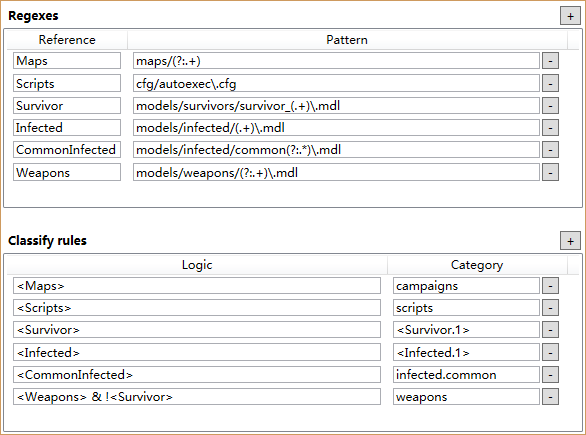
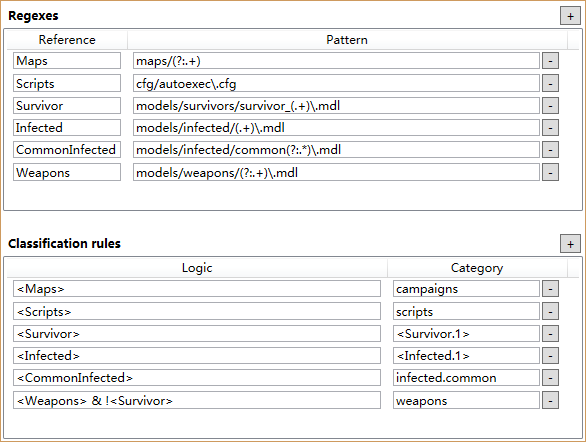
refine English

diff --git a/SourceCode/L4D2ModManager/Resources/Langs/zh-CN.xaml b/SourceCode/L4D2ModManager/Resources/Langs/zh-CN.xaml
@@ -27,7 +27,7 @@
     <s:String x:Key="Label_SubCategory">子分类</s:String>
     <s:String x:Key="Label_Search">查找：</s:String>
     <s:String x:Key="Label_Regex">正则表达式</s:String>
-    <s:String x:Key="Label_ClassifyRule">分类规则</s:String>
+    <s:String x:Key="Label_ClassificationRule">分类规则</s:String>
     <s:String x:Key="Col_ModId">标识符</s:String>
     <s:String x:Key="Col_ModSource">来源</s:String>
     <s:String x:Key="Col_ModState">状态</s:String>
@@ -48,7 +48,7 @@
     <s:String x:Key="Menu_SetPath">设置游戏路径</s:String>
     <s:String x:Key="Menu_Exit">退出</s:String>
     <s:String x:Key="Menu_CustomCategory">自定义分类</s:String>
-    <s:String x:Key="Menu_LocalModClassifyRule">本地Mod分类规则</s:String>
+    <s:String x:Key="Menu_LocalModClassificationRule">本地Mod分类规则</s:String>
     <s:String x:Key="Menu_FontSize">设置字号</s:String>
     <s:String x:Key="Menu_Colors">颜色方案</s:String>
     <s:String x:Key="Menu_CollisionContentView">冲突内容视图</s:String>

diff --git a/SourceCode/L4D2ModManager/Resources/Langs/en-US.xaml b/SourceCode/L4D2ModManager/Resources/Langs/en-US.xaml
@@ -6,7 +6,7 @@
     <s:String x:Key="Label_SubCategory">Subcategory</s:String>
     <s:String x:Key="Label_Search">Search : </s:String>
     <s:String x:Key="Label_Regex">Regexes</s:String>
-    <s:String x:Key="Label_ClassifyRule">Classify rules</s:String>
+    <s:String x:Key="Label_ClassificationRule">Classification rules</s:String>
     <s:String x:Key="Col_ModId">ID</s:String>
     <s:String x:Key="Col_ModSource">Source</s:String>
     <s:String x:Key="Col_ModState">State</s:String>
@@ -27,7 +27,7 @@
     <s:String x:Key="Menu_SetPath">Set game path</s:String>
     <s:String x:Key="Menu_Exit">Exit</s:String>
     <s:String x:Key="Menu_CustomCategory">Custom category</s:String>
-    <s:String x:Key="Menu_LocalModClassifyRule">Local MOD classify rules</s:String>
+    <s:String x:Key="Menu_LocalModClassificationRule">Local MOD classification rules</s:String>
     <s:String x:Key="Menu_FontSize">Font size</s:String>
     <s:String x:Key="Menu_Colors">Colors</s:String>
     <s:String x:Key="Menu_CollisionContentView">Collision content view</s:String>

diff --git a/SourceCode/L4D2ModManager/MainWindow.xaml b/SourceCode/L4D2ModManager/MainWindow.xaml
@@ -37,7 +37,7 @@
             </MenuItem>
             <MenuItem Header="{DynamicResource Menu_Edit}">
                 <MenuItem Header="{DynamicResource Menu_CustomCategory}" Click="MenuItemCustomCategoryClick"/>
-                <MenuItem Header="{DynamicResource Menu_LocalModClassifyRule}" Click="MenuItemLocalModClassifyRuleClick"/>
+                <MenuItem Header="{DynamicResource Menu_LocalModClassificationRule}" Click="MenuItemLocalModClassificationRuleClick"/>
             </MenuItem>
             <MenuItem Header="{DynamicResource Menu_View}">
                 <MenuItem Header="{DynamicResource Menu_FontSize}" Click="MenuItemFontSizeClick"/>

diff --git a/SourceCode/L4D2ModManager/WindowClassify.xaml b/SourceCode/L4D2ModManager/WindowClassify.xaml
@@ -66,7 +66,7 @@
                 <ColumnDefinition Width="*"/>
                 <ColumnDefinition Width="Auto"/>
             </Grid.ColumnDefinitions>
-            <Label Content="{DynamicResource Label_ClassifyRule}" Grid.Row="3" FontWeight="Bold"/>
+            <Label Content="{DynamicResource Label_ClassificationRule}" Grid.Row="3" FontWeight="Bold"/>
             <Button Grid.Column="2" Margin="2, 3" Padding="5, 0" Content="+" Click="OnButtonAddRuleClick"/>
         </Grid>
         <ListView Grid.Row="4" Name="ctlListViewRules" ItemContainerStyle="{StaticResource ListviewClassifyRowStyle}" Foreground="Black">

diff --git a/SourceCode/L4D2ModManager/L4D2Type.cs b/SourceCode/L4D2ModManager/L4D2Type.cs
@@ -168,7 +168,7 @@ namespace L4D2ModManager
                 System.IO.File.WriteAllText(CustomCategoryFile, Newtonsoft.Json.JsonConvert.SerializeObject(CategoryRoot));
                 Logging.Log("Saving regexes");
                 System.IO.File.WriteAllText(CustomRegexFile, Newtonsoft.Json.JsonConvert.SerializeObject(CustomRegex));
-                Logging.Log("Saving classify rules");
+                Logging.Log("Saving classification rules");
                 System.IO.File.WriteAllText(CustomClassifyFile, Newtonsoft.Json.JsonConvert.SerializeObject(CustomClassify));
             }
             void InitializeCategory()
@@ -236,7 +236,7 @@ namespace L4D2ModManager
             }
             void InitializeCustomClassify()
             {
-                Logging.Log("Custom : Initialize Classify Rules");
+                Logging.Log("Custom : Initialize Classification Rules");
                 CustomClassify = new List<Pair<string, string>>();
                 CustomClassify.Add(new Pair<string, string>("<Maps>", "campaigns"));
                 CustomClassify.Add(new Pair<string, string>("<Scripts>", "scripts"));

diff --git a/SourceCode/L4D2ModManager/MainWindow.xaml.cs b/SourceCode/L4D2ModManager/MainWindow.xaml.cs
@@ -416,10 +416,10 @@ namespace L4D2ModManager
                 mod.RefreshResources();
         }
 
-        private void MenuItemLocalModClassifyRuleClick(object sender, RoutedEventArgs e)
+        private void MenuItemLocalModClassificationRuleClick(object sender, RoutedEventArgs e)
         {
             var window = new WindowClassify();
-            window.Title = StringAdapter.GetResource("Menu_LocalModClassifyRule");
+            window.Title = StringAdapter.GetResource("Menu_LocalModClassificationRule");
             window.FontSize = FontSize;
             window.Owner = this;
             window.ShowDialog();

diff --git a/SourceCode/L4D2ModManager/BindingConverter/ListviewCellColorConverter.cs b/SourceCode/L4D2ModManager/BindingConverter/ListviewCellColorConverter.cs
@@ -19,7 +19,7 @@ namespace L4D2ModManager
                 m_matches.Add(L4D2MM.ModState.Unsubscribed, () => Configure.View.StateUnsubscribed);
                 m_matches.Add(L4D2MM.ModState.Miss, () => Configure.View.StateMiss);
                 m_matches.Add(L4D2MM.ModState.Off, () => Configure.View.StateOff);
-                m_matches.Add(L4D2MM.ModState.On, () => Configure.View.StateOff);
+                m_matches.Add(L4D2MM.ModState.On, () => Configure.View.StateOn);
             }
 
             public Color Match(L4D2MM.ModState key)
